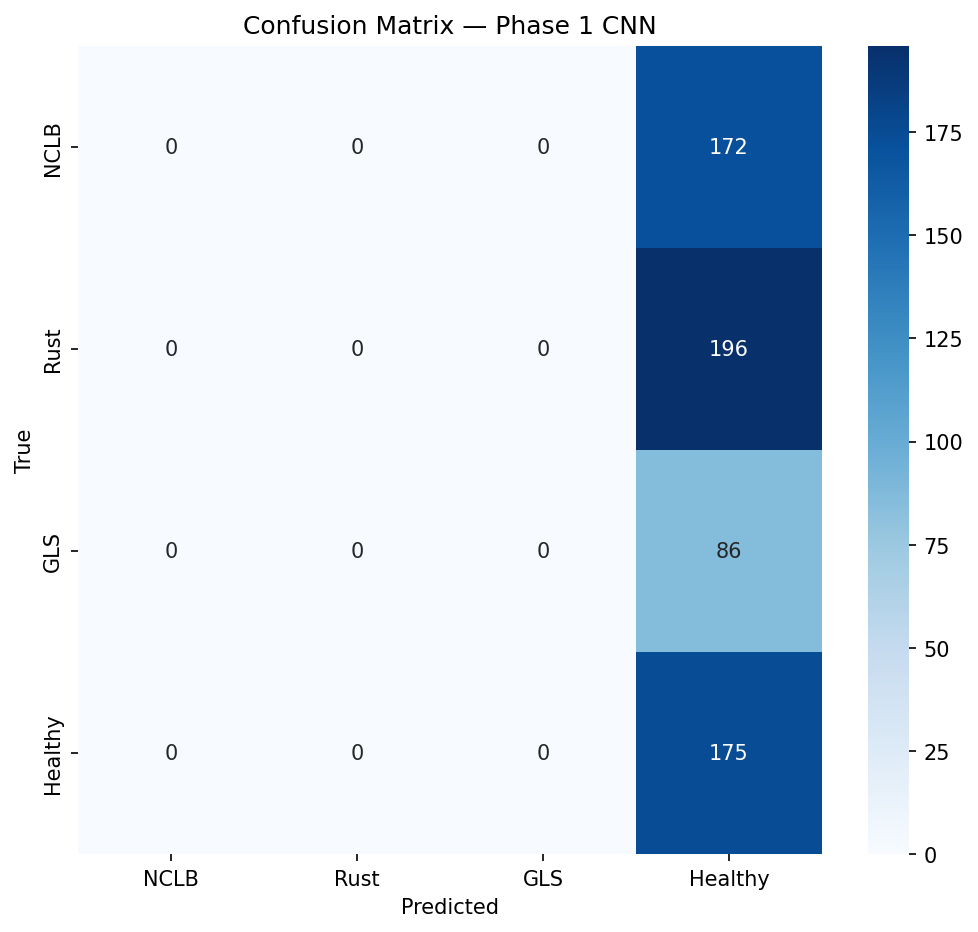
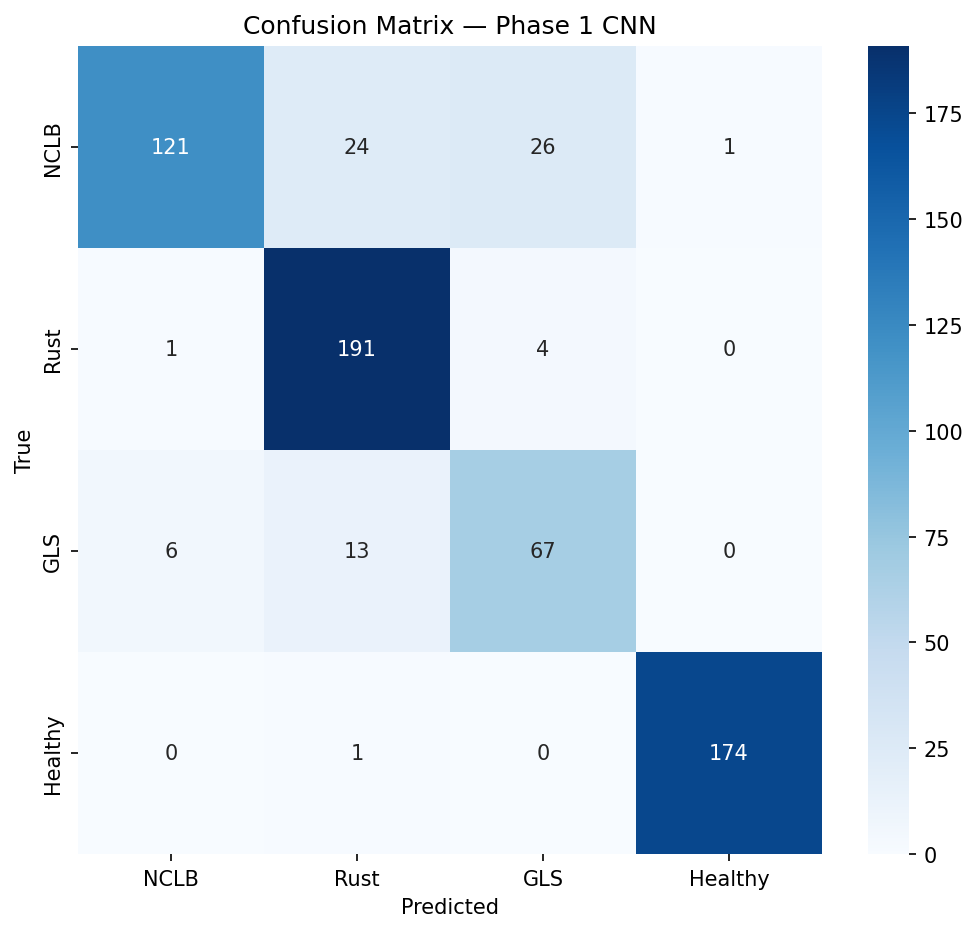
feat(cnn): enhance Phase 1 model training pipeline with improved data handling and evaluation metrics

diff --git a/src/phase1_cnn/train.py b/src/phase1_cnn/train.py
@@ -4,8 +4,10 @@ Run:
     python -m src.phase1_cnn.train
 
 Two-stage training:
-  Stage 1 — frozen base, 15 epochs, lr=1e-3
-  Stage 2 — unfreeze top layers, 20 epochs, lr=1e-5
+  Stage 1 — frozen base, 20 epochs, lr=1e-3  (train head only)
+  Stage 2 — unfreeze top layers, 30 epochs, lr=1e-5  (fine-tune end-to-end)
+
+Target: ≥90% validation accuracy on 4-class PlantVillage maize dataset.
 """
 
 import os
@@ -17,11 +19,11 @@ from src.phase1_cnn.model import build_model, compile_model, unfreeze_for_finetu
 
 # ── Defaults ───────────────────────────────────────────────────────────────────
 
-STAGE1_EPOCHS   = 15
-STAGE2_EPOCHS   = 20
+STAGE1_EPOCHS   = 20
+STAGE2_EPOCHS   = 30
 BATCH_SIZE      = 32
 CHECKPOINT_DIR  = "models/checkpoints"
-EXPORT_PATH     = "models/exports/efficientnetb3_maize.h5"
+EXPORT_PATH     = "models/exports/efficientnetb3_maize.keras"
 
 
 # ── Callbacks ──────────────────────────────────────────────────────────────────
@@ -30,22 +32,22 @@ def get_callbacks(stage: int) -> list:
     os.makedirs(CHECKPOINT_DIR, exist_ok=True)
     return [
         tf.keras.callbacks.ModelCheckpoint(
-            filepath=os.path.join(CHECKPOINT_DIR, f"phase1_stage{stage}_best.h5"),
+            filepath=os.path.join(CHECKPOINT_DIR, f"phase1_stage{stage}_best.keras"),
             monitor="val_accuracy",
             save_best_only=True,
             verbose=1,
         ),
         tf.keras.callbacks.EarlyStopping(
             monitor="val_accuracy",
-            patience=5,
+            patience=8,          # more patience — fine-tuning can plateau briefly
             restore_best_weights=True,
             verbose=1,
         ),
         tf.keras.callbacks.ReduceLROnPlateau(
             monitor="val_loss",
-            factor=0.5,
-            patience=3,
-            min_lr=1e-7,
+            factor=0.4,
+            patience=4,
+            min_lr=1e-8,
             verbose=1,
         ),
         tf.keras.callbacks.TensorBoard(
@@ -84,17 +86,32 @@ def train(args):
     )
 
     # ── Stage 2: fine-tune ──────────────────────────────────────────────────
+    # Keras 3 / TF 2.16 bug: calling compile() on an existing model instance
+    # leaves Adam's slot variables (m, v) sized for the frozen variable set.
+    # When newly-unfrozen convolution layers produce gradients, their shapes
+    # don't match the empty slots → "Incompatible shapes: [0] vs [...]".
+    # Fix: save weights → rebuild fresh model (clean optimizer slots) →
+    #      reload weights → train stage 2 from epoch 0.
     print("\n=== Stage 2: Fine-tuning (top layers unfrozen) ===")
-    model = unfreeze_for_finetuning(model, learning_rate=1e-5)
-    stage1_completed = len(history1.history["loss"])
-    history2 = model.fit(
+    tmp_weights = os.path.join(CHECKPOINT_DIR, "tmp_stage1.weights.h5")
+    model.save_weights(tmp_weights)
+
+    model2 = build_model()
+    model2 = unfreeze_for_finetuning(model2, learning_rate=1e-5)
+    model2.load_weights(tmp_weights)
+
+    history2 = model2.fit(
         train_ds,
         validation_data=val_ds,
-        epochs=stage1_completed + args.stage2_epochs,
+        epochs=args.stage2_epochs,
         class_weight=class_weights,
         callbacks=get_callbacks(stage=2),
-        initial_epoch=stage1_completed,
     )
+    model = model2
+
+    # Remove temp weights file
+    if os.path.exists(tmp_weights):
+        os.remove(tmp_weights)
 
     # ── Export ──────────────────────────────────────────────────────────────
     os.makedirs(os.path.dirname(EXPORT_PATH), exist_ok=True)

diff --git a/src/phase1_cnn/model.py b/src/phase1_cnn/model.py
@@ -10,14 +10,20 @@ from tensorflow.keras import layers, Model
 
 NUM_CLASSES        = 4   # NCLB, Rust, GLS, Healthy
 IMG_SIZE           = (300, 300)
-DROPOUT_RATE       = 0.3
+DROPOUT_RATE       = 0.4
 FINE_TUNE_AT_LAYER = 100   # unfreeze from this layer index during stage 2
 
 
 def build_model(num_classes: int = NUM_CLASSES) -> Model:
     """
     Build EfficientNetB3 with a custom classification head.
-    Base weights pre-loaded from ImageNet; base is frozen by default.
+
+    Input must be [0, 255] float32 — EfficientNetB3 contains an internal
+    Rescaling(1/255) layer; do NOT pre-normalise in the data pipeline.
+
+    Head: GAP → BN → Dense(512, relu) → Dropout(0.4) → Dense(256, relu)
+          → Dropout(0.3) → softmax(4)
+    A two-layer head gives the model more capacity for Stage 1 head training.
     """
     base = tf.keras.applications.EfficientNetB3(
         include_top=False,
@@ -28,14 +34,18 @@ def build_model(num_classes: int = NUM_CLASSES) -> Model:
 
     inputs = tf.keras.Input(shape=(*IMG_SIZE, 3), name="image_input")
 
-    # EfficientNetB3 includes its own internal preprocessing (rescaling + normalisation)
+    # EfficientNetB3 includes its own internal preprocessing (rescaling + normalisation).
+    # Pass training=False so base BN layers always use stored population statistics
+    # during Stage 1 — this is the standard fine-tuning pattern.
     x = base(inputs, training=False)
 
     # Classification head
     x = layers.GlobalAveragePooling2D(name="gap")(x)
     x = layers.BatchNormalization(name="bn_head")(x)
+    x = layers.Dense(512, activation="relu", name="dense_512")(x)
+    x = layers.Dropout(DROPOUT_RATE, name="dropout_1")(x)
     x = layers.Dense(256, activation="relu", name="dense_256")(x)
-    x = layers.Dropout(DROPOUT_RATE, name="dropout")(x)
+    x = layers.Dropout(0.3, name="dropout_2")(x)
     outputs = layers.Dense(num_classes, activation="softmax", name="predictions")(x)
 
     model = Model(inputs, outputs, name="EfficientNetB3_Maize")
@@ -47,7 +57,9 @@ def compile_model(
     learning_rate: float = 1e-3,
 ) -> Model:
     model.compile(
-        optimizer=tf.keras.optimizers.Adam(learning_rate=learning_rate),
+        optimizer=tf.keras.optimizers.AdamW(
+            learning_rate=learning_rate, weight_decay=1e-4
+        ),
         loss="sparse_categorical_crossentropy",
         metrics=["accuracy"],
     )
@@ -62,6 +74,11 @@ def unfreeze_for_finetuning(
     """
     Stage 2: unfreeze all layers from fine_tune_at onwards in the base model.
     Use a much lower learning rate to avoid destroying pre-trained weights.
+
+    NOTE: always call this on a *freshly built* model and load Stage 1 weights
+    afterwards — reusing the same model instance causes Keras 3 / TF 2.16 to
+    retain Adam slot variables sized for the frozen variable set, which crashes
+    on the first update step with "Incompatible shapes: [0] vs [...]".
     """
     base = model.get_layer("efficientnetb3")
     base.trainable = True
@@ -74,7 +91,9 @@ def unfreeze_for_finetuning(
     print(f"Fine-tuning: {trainable}/{total} base layers unfrozen (from layer {fine_tune_at})")
 
     model.compile(
-        optimizer=tf.keras.optimizers.Adam(learning_rate=learning_rate),
+        optimizer=tf.keras.optimizers.AdamW(
+            learning_rate=learning_rate, weight_decay=1e-5
+        ),
         loss="sparse_categorical_crossentropy",
         metrics=["accuracy"],
     )

diff --git a/src/phase1_cnn/data_pipeline.py b/src/phase1_cnn/data_pipeline.py
@@ -25,19 +25,25 @@ def build_augmentation():
         tf.keras.layers.RandomFlip("horizontal_and_vertical"),
         tf.keras.layers.RandomRotation(0.2),
         tf.keras.layers.RandomZoom(0.15),
-        tf.keras.layers.RandomBrightness(0.1),
-        tf.keras.layers.RandomContrast(0.1),
+        tf.keras.layers.RandomTranslation(0.1, 0.1),
+        tf.keras.layers.RandomBrightness(factor=0.2),
+        tf.keras.layers.RandomContrast(0.2),
     ], name="augmentation")
 
 
 # ── Image loading ──────────────────────────────────────────────────────────────
 
 def load_and_preprocess(image_path: str, label: int):
-    """Read image from disk, decode (JPEG or PNG), resize, normalise to [0, 1]."""
+    """Read image from disk, decode (JPEG or PNG), resize to [0, 255] float32.
+
+    EfficientNetB3 includes its own internal Rescaling(1/255) + Normalization
+    layers.  Do NOT divide by 255 here — passing pre-normalized [0,1] values
+    causes a double-rescaling that collapses activations and tanks accuracy.
+    """
     raw   = tf.io.read_file(image_path)
     image = tf.image.decode_image(raw, channels=3, expand_animations=False)
     image = tf.image.resize(image, IMG_SIZE)
-    image = tf.cast(image, tf.float32) / 255.0
+    image = tf.cast(image, tf.float32)   # keep in [0, 255]; model rescales internally
     return image, label
 
 

diff --git a/src/phase1_cnn/evaluate.py b/src/phase1_cnn/evaluate.py
@@ -6,7 +6,7 @@ Loads a trained model and a test dataset, then prints:
   - Confusion matrix (saved to models/exports/)
 
 Run:
-    python -m src.phase1_cnn.evaluate --model models/exports/efficientnetb3_maize.h5
+    python -m src.phase1_cnn.evaluate --model models/exports/efficientnetb3_maize.keras
 """
 
 import os
@@ -71,7 +71,7 @@ def _plot_confusion_matrix(cm: np.ndarray):
 
 def parse_args():
     p = argparse.ArgumentParser(description="Evaluate Phase 1 CNN")
-    p.add_argument("--model",      default="models/exports/efficientnetb3_maize.h5")
+    p.add_argument("--model",      default="models/exports/efficientnetb3_maize.keras")
     p.add_argument("--csv",        default="data/annotations/labels.csv")
     p.add_argument("--batch-size", type=int, default=32)
     return p.parse_args()
